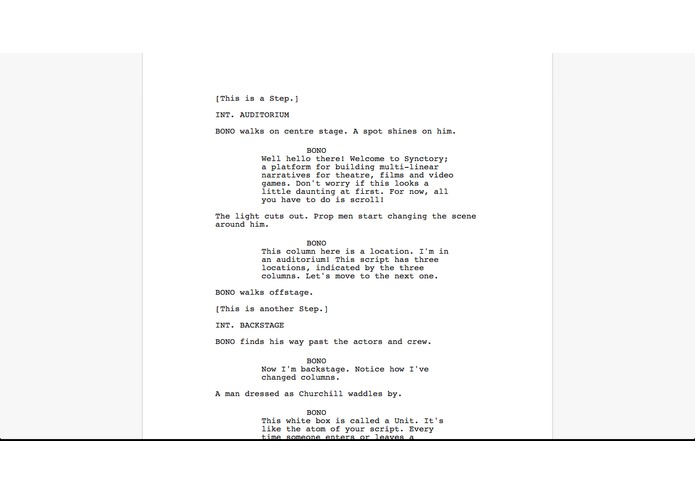
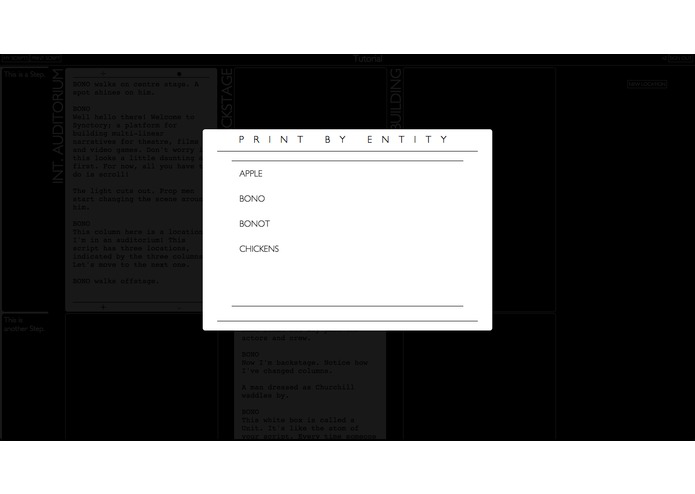
ALL THE CONTENT

diff --git a/source/_posts/Hello-Operator.md b/source/_posts/Hello-Operator.md
@@ -6,21 +6,27 @@ tags:
   - project
 pictures:
   - id: 0
-    title: ''
+    title: 'The title was a nod to Papers Please'
   - id: 1
-    title: ''
+    title: 'The game features a working switchboard machine, here obscured by an NPC'
   - id: 2
-    title: ''
+    title: 'The narrator constantly interjects the action'
   - id: 3
-    title: ''
+    title: 'The ending sequence uses colour and sound to create a crescendo'
 links:
   - description: Ludum Dare
     url: 'http://ludumdare.com/compo/ludum-dare-30/?action=preview&uid=35889'
-date: 2015-10-01 21:44:01
+  - description: Youtube playthough
+    url: 'https://www.youtube.com/watch?v=1CSy3l56LvI'
+date: 2014-08-25
 role: Developer/Designer
 status: Unstable build
-tagline: Narrative experiment
+tagline: Narrative experiment with switching perspectives
 ---
 
-Description
+Hello Operator marks the beginning of a habit of creating narrative experiments that shall never end (I hope). The theme of LD29 was 'Connected Worlds', and while I was not the only person to think of a <a href="http://ludumdare.com/compo/ludum-dare-30/?action=preview&uid=11823">switchboard operator</a> the game threw everything at creating a sense of time and place to increase the sense of role-playing. Marck Thornton and Jin Chan Yum Wai rustled up some great 2D art assets, and that mumbling American is voiced by none other than Daniel Arnold-Mist.
+
+The experimental nature came from pitting the player against their role; the job of being a switchboard operator was constantly being interupted by the narrative (told in third person by the husband), which included the avatar's own thoughts. The theory was to make the player empathise with the protagonist, an unhappily married woman forced into work by financial woes. However, the game rather goaded the player into hating themselves- 'Shut up woman!' was one of the nicer things my colleague shouted on his playthough.
+
+Later Sam and I would <a href="http://virtu-games.com/2015/06/30/devpact-podcast/">discuss the idea of role-playing in a first-person game</a>, by which point I would have abandoned the idea entirely.
 

diff --git a/source/_posts/Piramid.md b/source/_posts/Piramid.md
@@ -21,10 +21,11 @@ tagline: Puzzle Platformer with simple touch controls
 ---
 
 A collaboration with Mika Karkinen for Pi Jam 2014.
-I met Mika at Global Game Jam Bangkok 2015, where his team swooped both the audience and critics prizes (inc. link). Mika has the ability to invoke a sense of fun without ever overloading an art style with complexity; he's also incredibly fast and an incredibly affable guy! 
+I met Mika at Global Game Jam Bangkok 2015 where his team <a href="http://globalgamejam.org/2015/games/piglet-panic">swooped both the audience and critics prizes</a>. Mika has the ability to invoke a sense of fun without ever overloading an art style with complexity; he's also incredibly fast and an incredibly affable guy! 
 
-We spend a while thinking about the theme of the game- should it be abstract (for a while we thought about having the symbol as the player's avatar) or based somehow on the history of the concept? We ended up choosing the later and setting it in a Pi-ramid (drum crash please). It added a certain sense of mystery and wonder which the number certainly deserves!
+We spent a while thinking about the theme of the game- should it be abstract (we considered having the pi symbol as the player's avatar) or based somehow on the history of the concept? We ended up choosing the later and setting it in a Pi-ramid (drum crash please). It added a certain sense of mystery and wonder which the number certainly deserves!
 
-I was quite proud of how we managed to use Pi as the core mechanic of the game, and build physics based puzzles on top of it. As a short five minute experience it certainly doesn't lag, although I'd be curious to see how much further the concepts could be taken, seeing as we'd reached a limit by the end of our designs.
+I was quite proud of how we managed to use Pi as the core mechanic of the game, and build physics based puzzles on top of it. As a short five minute experience it certainly doesn't lag, although I'd be curious to see how much further the concepts could be taken, seeing as we'd reached a limit by deadline.
+
 
 

diff --git a/source/_posts/Synctory.md b/source/_posts/Synctory.md
@@ -5,15 +5,17 @@ tags:
   - project
 pictures:
   - id: 0
-    title: ''
+    title: 'The live webapp supports user accounts'
   - id: 1
-    title: ''
+    title: 'Space and time are discrete and represented by the x and y axis respectively'
   - id: 2
-    title: ''
+    title: 'The scripting tool allows you to spot any inconsistencies in time'
   - id: 3
-    title: ''
+    title: 'Scripts can be printed for actors and unit directors'
   - id: 4
-    title: ''
+    title: 'The Entity system tracks the position of any Entity through time'
+  - id: 5
+    title: 'An example script'
 links:
   - description: Live
     url: 'http://synctory.appback.com/'
@@ -23,12 +25,13 @@ links:
     url: 'https://www.youtube.com/watch?v=zRgxFf3v_a0'
   - description: Github
     url: 'https://github.com/chrismcmath/Synctory'
-date: 2015-10-01 23:01:52
+date: 2014-10-01 
 status: Active Development
 tagline: Tool for scripting multi-threaded narratives
 ---
 
-VR is ushering in a new era of storytelling, and the avenue of most interest to me is something I've termed 'multi-threaded narrative'; simply multiple stories happening simulanteously that the player curates.
+Synctory is a script-writing tool designed to make writing multi-threaded narratives as painless as possible.
 
-Synchronising multiple interweaving storylines is incredibly difficult, and Synctory is designed to take some of the pain out of it.
+Multi-threaded narratives require the viewer to have some choice in which things they observe. Things are happening simultaneously; to watch one storyline is to miss out on the other. This allows the artist great opportunities to play with perspective, pacing and social dimensions.
 
+Synctory's output is something that looks very much like a screenplay. This can be used for the creation of immersive plays, interactive films or narrative-based video games. It can also be imported into the Unity game engine via the <a href="2015/10/02/Synctory-Unity-Library/">Unity Synctory Library<a>.

diff --git a/source/_posts/Cavern-Conmen.md b/source/_posts/Cavern-Conmen.md
@@ -2,7 +2,8 @@ title: Cavern Conmen
 categories:
   - Games
 tags:
-  - game
+  - cavern-conmen
+  - ggj
   - project
 pictures:
   - id: 0
@@ -13,16 +14,20 @@ pictures:
     title: ''
   - id: 3
     title: ''
+  - id: 4
+    title: ''
 links:
-  - description: Play and Download on Itch.io
-    url: ''
-  - description: Ludum Dare
-    url: ''
-date: 2015-10-01 21:50:07
+  - description: Global Game Jam entry
+    url: 'http://globalgamejam.org/2015/games/cavern-conmen'
+date: 2015-01-31
 role: Co-Developer/Co-Designer
 status: Playable Sketch
-tagline:
+tagline: Multiplayer bluff game over local network
 ---
 
-DoX (Tahir Vico) and Nipiton (Wongsuparatkul) met at Global Game Jam
+DoX (Tahir Vico), Nipiton (Wongsuparatkul) and I met at Global Game Jam Bangkok and spent a good amount of time discussing what we wanted to make before settling into grunt mode. Working surrounded by tens of teams all beavering away was pretty motivating, and seeing the projects during the presentations was enticing and humbling to say the least. Great ideas and technical feats were in abundance.
+
+Through our design iterations we managed to settle on a social game that other people could drop in and out of. The game uses linguistic communication between players as its core mechanic, and the local network to sync the game state between devices. Players cannot see what is around them, rather they must trust what their opponent tells them. The effect was something like the popular party game Mafia/Werewolf, with relationships mutating over individual games. 
+
+The biggest issue with the game was how it communicated its own mechanics- one of the pictures above shows me stuggling to explain the concept to the judges. As a party game it should be instantly grok-able, but unforunatley we ran out of time before figuring out how to achieve this.
 

diff --git a/source/_posts/Alex-Takes-a-Test.md b/source/_posts/Alex-Takes-a-Test.md
@@ -2,17 +2,17 @@ title: Alex Takes a Test
 categories:
   - Games
 tags:
-  - game
+  - alex-test
   - project
 pictures:
   - id: 0
-    title: ''
+    title: 'The opening sequence invokes The Twilight Zone'
   - id: 1
-    title: ''
+    title: 'The opaque puzzle sequence'
   - id: 2
-    title: ''
+    title: 'Incomprehensible words an official hospital letter are used to create a sense of orientation'
   - id: 3
-    title: ''
+    title: 'The music was not quite fitting with the theme, but it sure was fun to make'
 links:
   - description: Play and Download on Itch.io
     url: 'http://chrismcmath.itch.io/alex'
@@ -21,8 +21,12 @@ links:
 date: 2014-12-08
 role: Developer/Designer
 status: Playable Sketch
-tagline:
+tagline: Action puzzler in an abstract space
 ---
 
+As my <a href="2014/08/25/Hello-Operator/">previous Ludum Dare game</a> had been quite sedate in pacing, I wanted my LD31 game (theme 'Entire Game on One Screen') to be more action orientated, while still trying something new with the narrative. The idea was a story about the relationship between Alex and Alex's doctor. The mechanics hinted at symptoms of social anxiety and autism but played on the player's understanding rather than explicitly lay bare any psychological profile.
 
-LD31
+Unfortunately, this was the first jam where time management almost entirely torpedoed the project. The simple design of the puzzle and flying sequences did not automatically translate into a good game feel, and a lot of time was spent trying to make the flying section feel more anxiety inducing. In the end I'd have more more success with this in <a href="2015/02/23/Delicate-Thread/">Delicate Thread</a>.
+
+
+

diff --git a/source/_posts/Delicate-Thread.md b/source/_posts/Delicate-Thread.md
@@ -6,7 +6,7 @@ tags:
   - project
 pictures:
   - id: 0
-    title: "Kat Trautmann's art was a joy to wake up to every morning"
+    title: "Kat's art was a joy to wake up to every morning"
   - id: 1
     title: 'The player flies along an abstraction of their neural paths'
   - id: 2
@@ -20,11 +20,16 @@ pictures:
 links:
   - description: Play and Download on Itch.io
     url: 'http://jamforleelah53.itch.io/delicate-thread'
-date: 2015-10-01 18:55:22
+date: 2015-02-23
 role: Co-Writer/Co-Designer/Developer
 status: Completed
 tagline: Narrative driven infinite-runnner
 ---
 
-I met Kat Trautmann via a Twitter shout out for collaborators on a JamForLeelah project. 
+Probably my favourite project so far, Delicate Thread was my collaboration with artist <a href="http://tehraven.com/">Kat Trautmann</a> and featured voice talent from James Laver, Warisa Neranartkomol and Chris Wegoda.
+
+Made for JamForLeelah, it builds on some of the ideas from <a href="2014/12/08/Alex-Takes-a-Test/">Alex Takes a Test</a> and commits fully to a story of a child coming to terms with their identity. Working with Kat was an absolute pleasure; due to our opposite timezones I would usually wake to some awesome thing Kat had made that would fill my day with motivation. Our collaborations on the scripts, drawing on our own histories, made the game very personal and filled the narrative with a charge.
+
+Thankfully, unlike Alex Takes a Test the experiment was a success. The infinite runner mechanics merged with the narrative and sound design to create an emotion thrill-ride that manages to convey the internal without patronising or lecturing.
+
 

diff --git a/source/_posts/Ember-Conflict.md b/source/_posts/Ember-Conflict.md
@@ -6,22 +6,23 @@ tags:
   - project
 pictures:
   - id: 0
-    title: ''
+    title: Dan's logo is instantly recognisable, and a stylistic fit for the violent fantastical world
   - id: 1
-    title: ''
+    title: 'Play involved selecting, deploying and moving troops using line drawing'
   - id: 2
-    title: ''
+    title: 'The amount of customisation was absurd, with many units and gear combinations'
   - id: 3
-    title: ''
+    title: 'The authoritive server prevented any foul play and recorded sessions for replay'
 links:
   - description: Website
-    url: ''
-  - description: Ludum Dare
-    url: ''
+    url: 'emberconflict.com'
 date: 2015-08-01
 role: Co-Developer
 status: Completed
 tagline: Touch-based Real Time Tactics
 ---
 
+The Ember Conflict was the two year project of Substantial Games, my home in Beijing. Our CTO YJ Park changed the way I thought about coding, being something like a tech version of Shigeru Miyamoto; if ever you are settled into thinking one idea is best, Park could be relied on to show you how many things you hadn't considered. 
+
+People were constantly impressed with how great our game looked; testament to the skill of Daniel Arnold-Mist and his team (artist Diego Candia and animator Kenneth Greenblatt) as well as Pin Wang's modern UI designs. Although we gained many hardcore fans we did not achieve the traction necessary for 'escape velocity' and went our separate ways in 2015. Having now moved back to Europe I have been picketing everyone to move West ever since.
 

diff --git a/source/_posts/Shanghai.md b/source/_posts/Shanghai.md
@@ -6,19 +6,22 @@ tags:
   - project
 pictures:
   - id: 0
-    title: ''
+    title: 'The game was designed for mobile'
   - id: 1
-    title: ''
+    title: 'The deals made on the map (lower screen) affect the relationships with various embassies (upper screen)'
 links:
   - description: Ludum Dare
     url: 'http://ludumdare.com/compo/ludum-dare-29/?action=preview&uid=33962'
   - description: Sam's post about the game
     url: 'http://ludumdare.com/compo/2014/04/29/shanghai-a-game-about-corruption-treason-in-1940s-china/'
-date: 2015-10-01 21:47:08
+date: 2014-04-28
 role: Developer/ Co-Designer
 status: Completed
 tagline: 1940s themed action puzzler
 ---
 
+The first of many collaborations with Samuel Green, Shanghai marks the beginning of a jam habit neither of us have been able to shake since.
 
+The design of the game came together very quickly, starting from the idea of espionage and the flow of information through a secretive system. It was great fun inserting themed assets; the ticker tape, the Bund, and the 1940s search lights. Daniel Arnold-Mist made a last minute cameo providing the sepia map and some great art suggestions.
 
+The game proved to be engaging, and we've experiemented with prototypes since for a possible follow up. The issue of diversion of focus in the game (with attention conintually flipping from the map to the ticker tape to the embassy stats) was easy to fix; trying to distill multiple interacting mechanics down to something simpler but just as emergent less so.

diff --git a/source/_posts/Prohibition.md b/source/_posts/Prohibition.md
@@ -1,0 +1,31 @@
+title: Prohibition
+categories:
+  - Games
+tags:
+  - prohibition
+  - live-game
+  - project
+pictures:
+  - id: 0
+    title: 'Bars on the map can be won by buying a drink there'
+  - id: 1
+    title: 'The leaderboard is updated in real time'
+  - id: 2
+    title: Each bar has three drink choices; if you choose one that's been prohibited by another team you're barred!
+  - id: 3
+    title: 'We were lucky to have so many cool bars in Beijing; Mas is one of my personal favourites'
+links:
+  - description: Github
+    url: 'https://github.com/chrismcmath/prohibition'
+date: 2015-06-07
+role: Developer/Designer
+status: On hiatus
+tagline: Location-based drinking game 
+---
+
+Live games are to video games as theatre is to film; it only lasts for a finite time with a finite audience but hell is it electrifying.
+
+I used my birthday to galvanise friends to form teams and particpate in a day of drinking, running and strategy, and for me worrying the wheels might come off at any point. Foruntately Meteor proved a stable and flexible platform to build the game on, with no hiccups as teams ran riot over the hutongs of Beijing using mobile devices to check in. There were some superb plays over the two and a half hour play session and the winning team got to choose my new haircut: an inverse mohawk.
+
+If you would like to run your own version of the game, or are interested in helping develop the platform please get in touch!
+

diff --git a/source/_posts/Avenging-My-Gran-the-Famed-Botanist.md b/source/_posts/Avenging-My-Gran-the-Famed-Botanist.md
@@ -30,9 +30,10 @@ status: Completed
 tagline: Short puzzlescript puzzler
 ---
 
-Made in 48 hours for LD32 (theme 'Unconventional Weapon'), this was a great opportunity to get my hands dirty with Stephen Lavelle's Puzzlescript engine. The syntax is great fun to figure out, and itself resembles someone like a puzzle game. The limitations of the engine are liberating, but also allow the designer no slight-of-hand tricks to draw attention away from poor gameplay. A good puzzlescript game is a good game, period.
+Made in 48 hours for LD32 (theme 'An Unconventional Weapon'), this was a great opportunity to get my hands dirty with Stephen Lavelle's Puzzlescript engine. The syntax is great fun to figure out, itself resembling a puzzle game. The limitations of the engine are liberating, but also allow the designer no slight-of-hand tricks to draw attention away from unengaging gameplay. A good puzzlescript game is a good game, period.
 
 I had tried to avoid any story at all, having experimented greatly in the previous two Ludum Dares. However I found it impossible to avoid entirely, opting for a short introduction that provides some sense of motivation for your avatar. And why 'Gran'? 'Gran' is funny, right?
 
 This also marked my first game in a while to feature an actual colour palette. At the time I remember being very unsatisfied with it, but looking back it has a dreary yet colourful demeanour that suits the theme quite nicely.
+
 

diff --git a/source/_posts/Synctory-Unity-Library.md b/source/_posts/Synctory-Unity-Library.md
@@ -1,0 +1,26 @@
+title: Synctory Library for Unity
+categories:
+  - Tools
+tags:
+  - synctory
+  - project
+pictures:
+  - id: 0
+    title: A model built from the imported script is viewable via the hierarchy
+  - id: 1
+    title: The view allows the creator to view the scripts through time
+  - id: 2
+    title: 'The transform binder allows Entity (character) positions to be recorded in real-time'
+  - id: 3
+    title: A binder can be written to act as an interface for any component. This built-in binder syncs audio files with the current playback position.
+links:
+  - description: Github
+    url: 'https://github.com/chrismcmath/Synctory-Unity-API'
+date: 2015-10-02 11:54:26
+status: Active development
+tagline: A collection of tools for using Synctory scripts in Unity
+---
+
+<a href="2014/10/01/Synctory/">Synctory</a> is a great tool for writing scripts for theatre, but its real power is in the potential it was for integration with other systems. The Synctory Library for Unity is the next part in a system to streamline the production of multi-threaded narrative experiences.
+
+The library currently features the ability to import scripts, to view those scripts in a real-time script viewer, and a binding system that allows various elements to react to changes in the script over time.

diff --git a/source/_posts/The-Last-Little-Monster.md b/source/_posts/The-Last-Little-Monster.md
@@ -18,15 +18,16 @@ links:
     url: 'http://chrismcmath.itch.io/the-last-little-monster-ld33'
   - description: Ludum Dare
     url: 'http://ludumdare.com/compo/ludum-dare-33/?action=preview&uid=35889'
-date: 2015-10-01 21:29:41
+date: 2015-08-24
 role: Developer/Designer
 status: Playable Sketch
-tagline: Coarse sketch for a 2D platforming roguelike
+tagline: Procedural 2D roguelike
 ---
 
-Submission for LD33 (theme 'You Are the Monster') and made in under 48 hours.
+My submission for LD33, the theme was 'You Are the Monster'.
 
 Certainly the product of 'biting off more than I could chew', the project nevertheless allowed me my first ditherings with procedural generation, and while the core game loop was under-designed I had great fun working on the game feel via animations, sound and tweenings.
 
-A full post-mortem on this game can be found here.
+A full post-mortem on this game can be found <a href="http://ludumdare.com/compo/2015/09/03/the-three-knows-of-gamedev-a-ld33-post-mortem/">here</a>.
+
 
